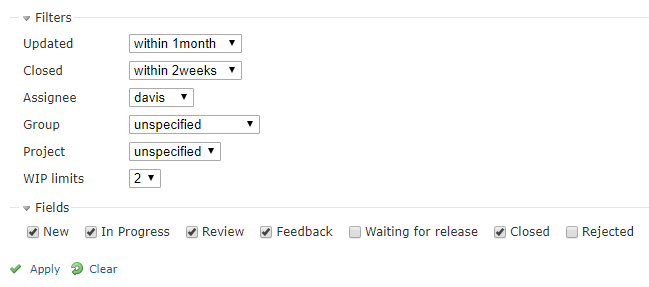
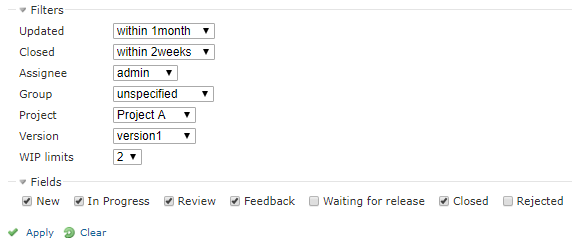
Add filter of project version.

diff --git a/app/controllers/kanban_controller.rb b/app/controllers/kanban_controller.rb
@@ -173,9 +173,15 @@ class KanbanController < ApplicationController
         if status_id == Constants::WIP_COUNT_STATUS_FIELD then
           @user_id_array.each {|uid|
             wip_counter = 0
-              @issues_hash[status_id].each {|issue|
+            @issues_hash[status_id].each {|issue|
               if issue.assigned_to_id == uid then
-                wip_counter += 1
+                if @version_id == "unspecified" then
+                  wip_counter += 1
+                else
+                  if issue.fixed_version_id == @version_id.to_i then
+                    wip_counter += 1
+                  end
+                end
               end
             }
             # Save count value
@@ -217,6 +223,7 @@ class KanbanController < ApplicationController
     session_hash["user_id"] = @user_id
     session_hash["group_id"] = @group_id
     session_hash["project_all"] = @project_all
+    session_hash["version_id"] = @version_id
     session_hash["status_fields"] = @status_fields
     session_hash["wip_max"] = @wip_max
     session[:kanban] = session_hash
@@ -262,7 +269,14 @@ class KanbanController < ApplicationController
     else
       @project_all = params[:project_all]
     end
-    
+
+    # Display version ID
+    if !session_hash.blank? && params[:version_id].blank?
+      @version_id = session_hash["version_id"]
+    else
+      @version_id = params[:version_id]
+    end
+
     # Selected statuses
     if !session_hash.blank? && params[:status_fields].blank?
       @status_fields = session_hash["status_fields"]
@@ -313,6 +327,11 @@ class KanbanController < ApplicationController
       if @project_all.blank? then
         @project_all = "0"
       end
+    end
+
+    # Version ID
+    if @version_id.nil? || @version_id.to_i == 0 || @project_all == "1" then
+      @version_id = "unspecified"
     end
 
     # Array of status ID for display

diff --git a/README.md b/README.md
@@ -2,11 +2,11 @@
 This plugin provides the Kanban board.
 
 ## What's new
+* Add filter of project version.
 * Keep scroll position when cancel drop.
 * Refactored the program.
 * Change permission name into "Display menu link".
 * Fix problem of the filter group and assignee are not limited to the current project.
-* Fix problem with sub-URI configuration.
 
 ## Features
 * Tickets can be displayed in a card form by status.
